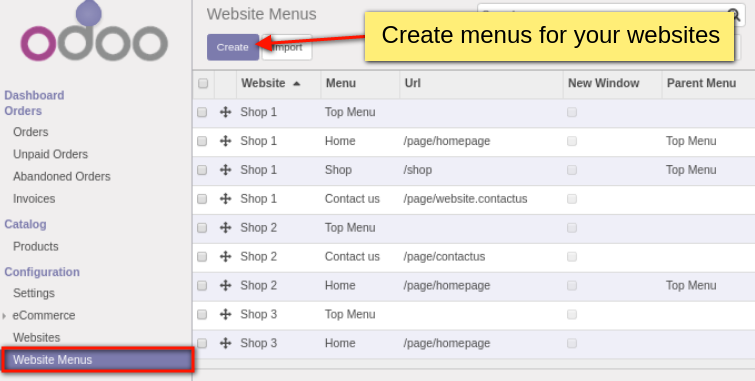
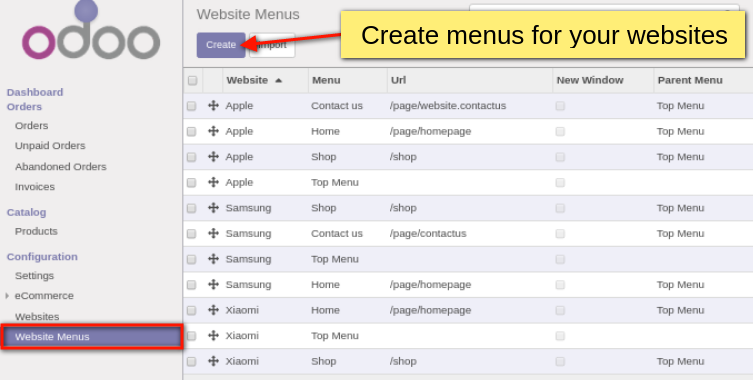
[DOC] improvement the description

diff --git a/website_multi_company/static/description/index.html b/website_multi_company/static/description/index.html
@@ -79,7 +79,7 @@
   <div class="oe_row oe_spaced">
     <div class="oe_span12 text-center">
       <p class="oe_mt32">
- 		<font size="3px">In the website creation form specify Website Name, Website Domain (e.g. <em>shop1.it-projects.info, shop2.it-projects.info, etc</em>) and other fields if needed. Also you will be able to specify company name if your database supports multi-company feature.</font>
+ 		<font size="3px">In the website creation form specify Website Name, Website Domain (e.g. <em>apple.mycompany.local, samsung.mycompany.local, etc</em>) and other fields if needed. Also you will be able to specify company name if your database supports multi-company feature.</font>
       </p>		
     </div>
     <div class="oe_row_img oe_centered">
@@ -101,18 +101,20 @@
    </div>
 </section>
 
-<br/>
-
 <section class="oe_container">
   <div class="oe_row oe_spaced">
-	<h4 class="oe_slogan">Shop 1 &lt;shop1.it-projects.info&gt;</h4>
-    <div class="oe_span12 text-center">
+    <div class="oe_span12">
       <p class="oe_mt32">
- 		<font size="3px">Open <em>shop1.it-projects.info</em> and design it whatever you like</font>
+ 		<font size="3px">
+		  Open each website and design it whatever you like. Then go to any of them and be sure that each one has own description, own products at shop, etc.<br/>
+		  As an example you can see 3 websites below:
+		  <ul>
+			<li>apple.mycompany.local</li>
+			<li>samsung.mycompany.local</li>
+			<li>xiaomi.mycompany.local</li>
+		  </ul>
+		</font>
       </p>		
-    </div>
-    <div class="oe_row_img oe_centered">
-      <img class="oe_demo oe_picture oe_screenshot" src="website_shop1.png"/>
     </div>
    </div>
 </section>
@@ -121,30 +123,148 @@
 
 <section class="oe_container oe_dark">
   <div class="oe_row oe_spaced">
-	<h4 class="oe_slogan">Shop 2 &lt;shop2.it-projects.info&gt;</h4>
+	<h4 class="oe_slogan"><b>Apple Website &lt;apple.mycompany.local&gt;</b></h4>
     <div class="oe_span12 text-center">
       <p class="oe_mt32">
- 		<font size="3px">Open <em>shop2.it-projects.info</em> and design it whatever you like</font>
+ 		<font size="3px">If a customer open <em>apple.mycompany.local</em>, he can see for example:</font>
       </p>		
     </div>
-    <div class="oe_row_img oe_centered">
-      <img class="oe_demo oe_picture oe_screenshot" src="website_shop22.png"/>
+	<div class="oe_span12 text-center">
+      <p class="oe_mt32">
+ 		<font size="5px">Apple Homepage</font>
+      </p>		
     </div>
-   </div>
+    <div class="oe_screenshot" align="center">
+      <img style="max-width: 80%" src="website_apple.png"/>
+    </div>
+	<br/>
+	<div class="oe_span12 text-center">
+      <p class="oe_mt32">
+ 		<font size="5px">Apple Shop (it contains apple devices only)</font>
+      </p>		
+    </div>
+    <div class="oe_screenshot" align="center">
+      <img style="max-width: 80%" src="website_ecommerce1.png"/>
+    </div>
+	<br/>
+	<div class="oe_span12 text-center">
+      <p class="oe_mt32">
+ 		<font size="3px">If a customer make an order at Apple Shop, the created sale order will belong to the associated company - Company 1</font>
+      </p>		
+	</div>
+	<br/>
+	<div class="oe_span12 text-center">
+      <p class="oe_mt32">
+ 		<font size="5px">Sale Order</font>
+      </p>		
+    </div>
+    <div class="oe_screenshot" align="center">
+      <img style="max-width: 80%" src="website_so1.png"/>
+    </div>
+	<br/>
+	<br/>
+	<div class="oe_screenshot" align="center">
+      <img style="max-width: 80%" src="website_so1_1.png"/>
+    </div>
+  </div>
 </section>
 
 <br/>
 
 <section class="oe_container">
   <div class="oe_row oe_spaced">
-	<h4 class="oe_slogan">Shop 3 &lt;shop3.it-projects.info&gt;</h4>
-    <div class="oe_span12 text-center">
+	<h4 class="oe_slogan"><b>Samsung Website &lt;samsung.mycompany.local&gt;</b></h4>
+	<div class="oe_span12 text-center">
       <p class="oe_mt32">
- 		<font size="3px">Open <em>shop3.it-projects.info</em> and design it whatever you like</font>
+ 		<font size="3px">If a customer open <em>samsung.mycompany.local</em>, he can see for example:</font>
       </p>		
     </div>
-    <div class="oe_row_img oe_centered">
-      <img class="oe_demo oe_picture oe_screenshot" src="website_shop3.png"/>
+	<div class="oe_span12 text-center">
+      <p class="oe_mt32">
+ 		<font size="5px">Samsung Homepage</font>
+      </p>		
+    </div>
+    <div class="oe_screenshot" align="center">
+      <img style="max-width: 80%" src="website_samsung.png"/>
+    </div>
+	<br/>
+	<div class="oe_span12 text-center">
+      <p class="oe_mt32">
+ 		<font size="5px">Samsung Shop (it contains samsung devices only)</font>
+      </p>		
+    </div>
+    <div class="oe_screenshot" align="center">
+      <img style="max-width: 80%" src="website_ecommerce2.png"/>
+    </div>
+	<br/>
+	<div class="oe_span12 text-center">
+      <p class="oe_mt32">
+ 		<font size="3px">If a customer make an order at Samsung Shop, the created sale order will belong to the associated company - Company 2</font>
+      </p>		
+	</div>
+	<br/>
+	<div class="oe_span12 text-center">
+      <p class="oe_mt32">
+ 		<font size="5px">Sale Order</font>
+      </p>		
+    </div>
+    <div class="oe_screenshot" align="center">
+      <img style="max-width: 80%" src="website_so2.png"/>
+    </div>
+	<br/>
+	<br/>
+	<div class="oe_screenshot" align="center">
+      <img style="max-width: 80%" src="website_so2_1.png"/>
+    </div>
+   </div>
+</section>
+
+<br/>
+
+<section class="oe_container oe_dark">
+  <div class="oe_row oe_spaced">
+	<h4 class="oe_slogan"><b>Xiaomi Website &lt;xiaomi.mycompany.local&gt;</b></h4>
+	<div class="oe_span12 text-center">
+      <p class="oe_mt32">
+ 		<font size="3px">If a customer open <em>xiaomi.mycompany.local</em>, he can see for example:</font>
+      </p>		
+    </div>
+	<div class="oe_span12 text-center">
+      <p class="oe_mt32">
+ 		<font size="5px">Xiaomi Homepage</font>
+      </p>		
+    </div>
+    <div class="oe_screenshot" align="center">
+      <img style="max-width: 80%" src="website_xiaomi.png"/>
+    </div>
+	<br/>
+	<div class="oe_span12 text-center">
+      <p class="oe_mt32">
+ 		<font size="5px">Xiaomi Shop (it contains xiaomi devices only)</font>
+      </p>		
+    </div>
+    <div class="oe_screenshot" align="center">
+      <img style="max-width: 80%" src="website_ecommerce3.png"/>
+    </div>
+	<br/>
+	<div class="oe_span12 text-center">
+      <p class="oe_mt32">
+ 		<font size="3px">If a customer make an order at Xiaomi Shop, the created sale order will belong to the associated company - Company 3</font>
+      </p>		
+	</div>
+	<br/>
+	<div class="oe_span12 text-center">
+      <p class="oe_mt32">
+ 		<font size="5px">Sale Order</font>
+      </p>		
+    </div>
+    <div class="oe_screenshot" align="center">
+      <img style="max-width: 80%" src="website_so3.png"/>
+    </div>
+	<br/>
+	<br/>
+	<div class="oe_screenshot" align="center">
+      <img style="max-width: 80%" src="website_so3_1.png"/>
     </div>
    </div>
 </section>
@@ -159,7 +279,7 @@
    </div>
 </section>
 
-<section class="oe_container">
+<section class="oe_container oe_dark">
   <div class="oe_row oe_spaced">
 	<h2 class="oe_slogan" style="color:#875A7B;">Free Support</h2>
 	<h3 class="oe_slogan">You will get free support and assistance in case of any issues</h3>
